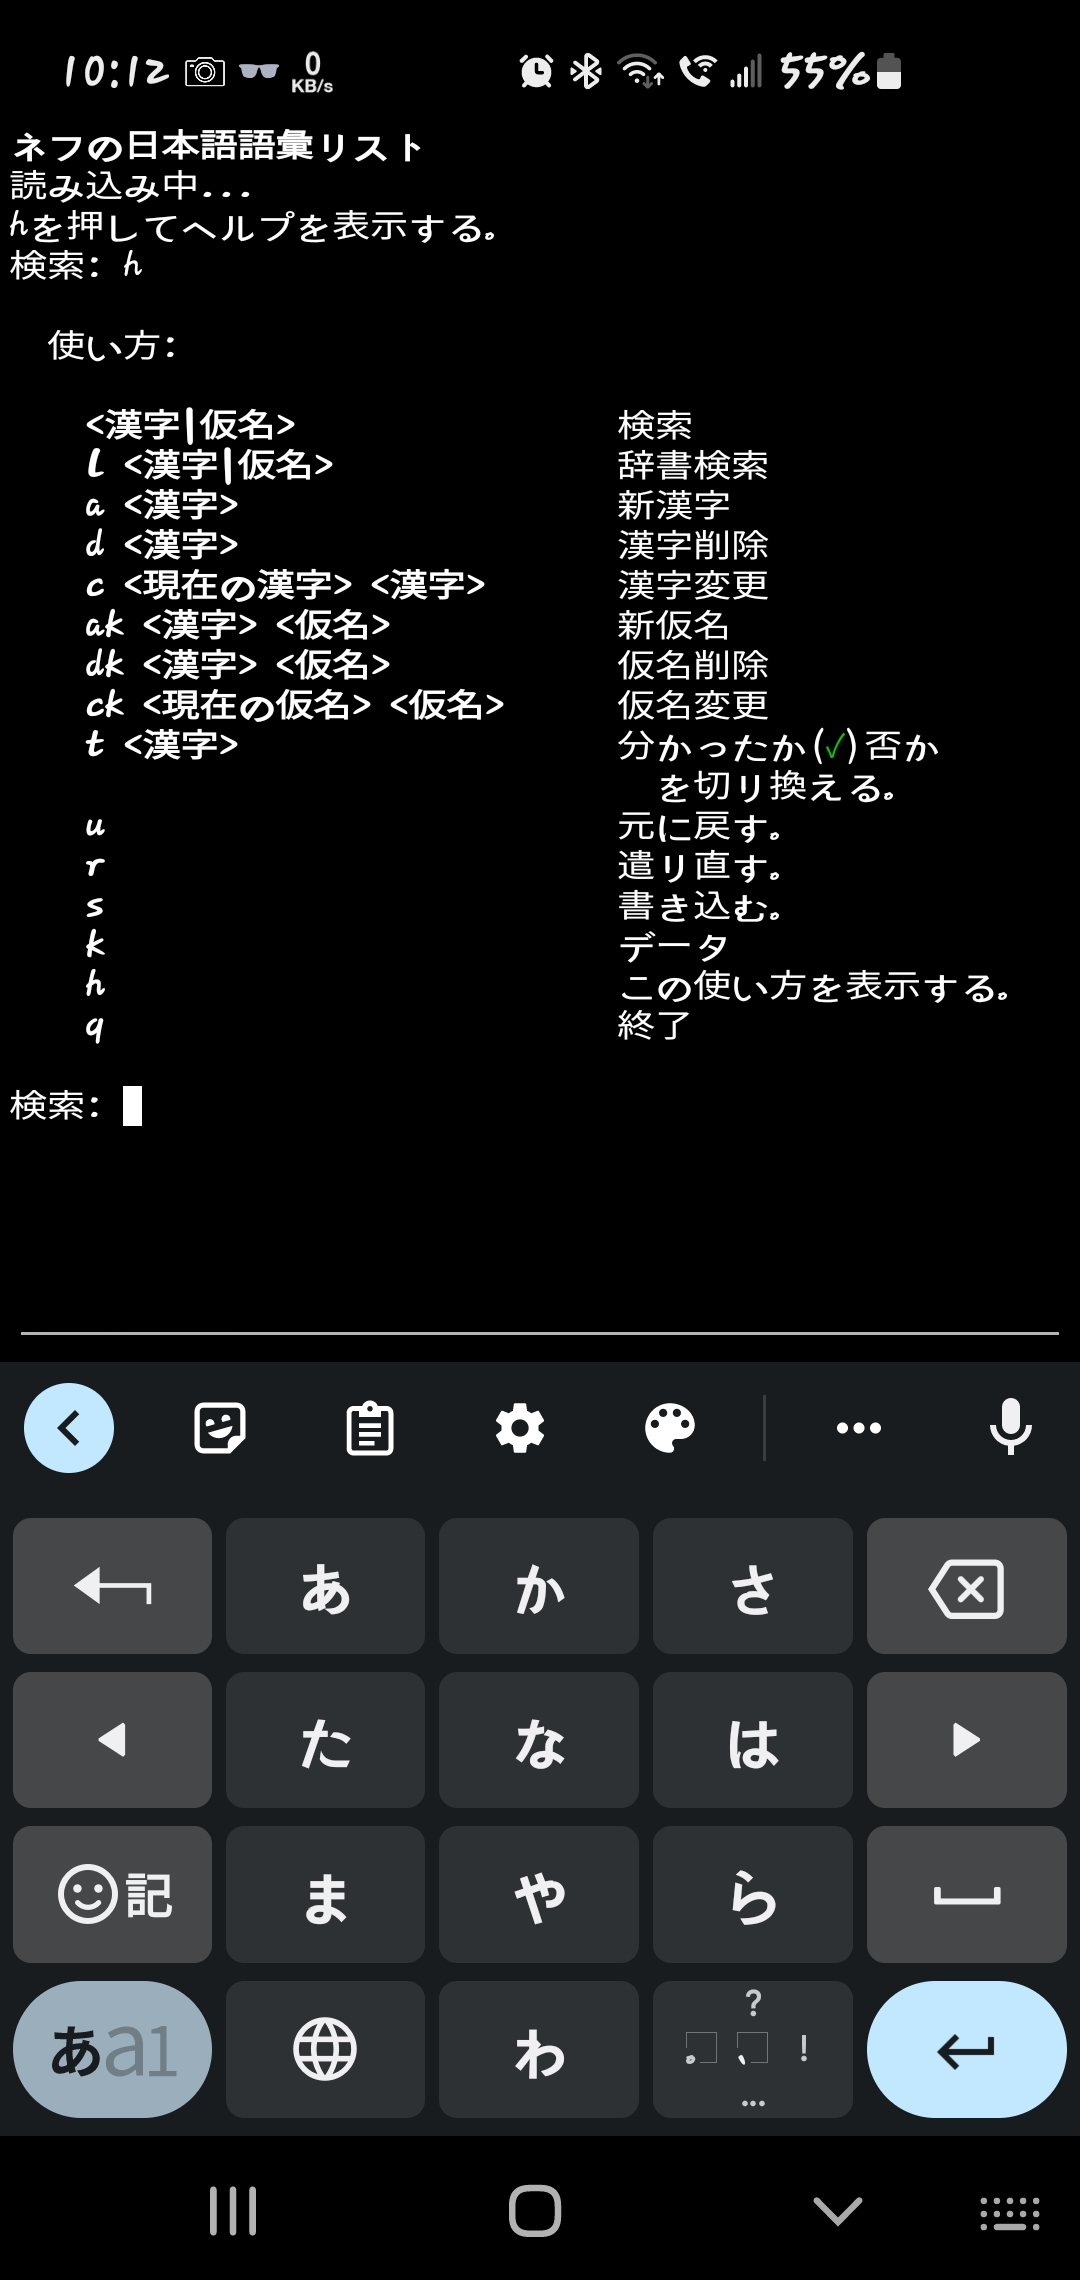
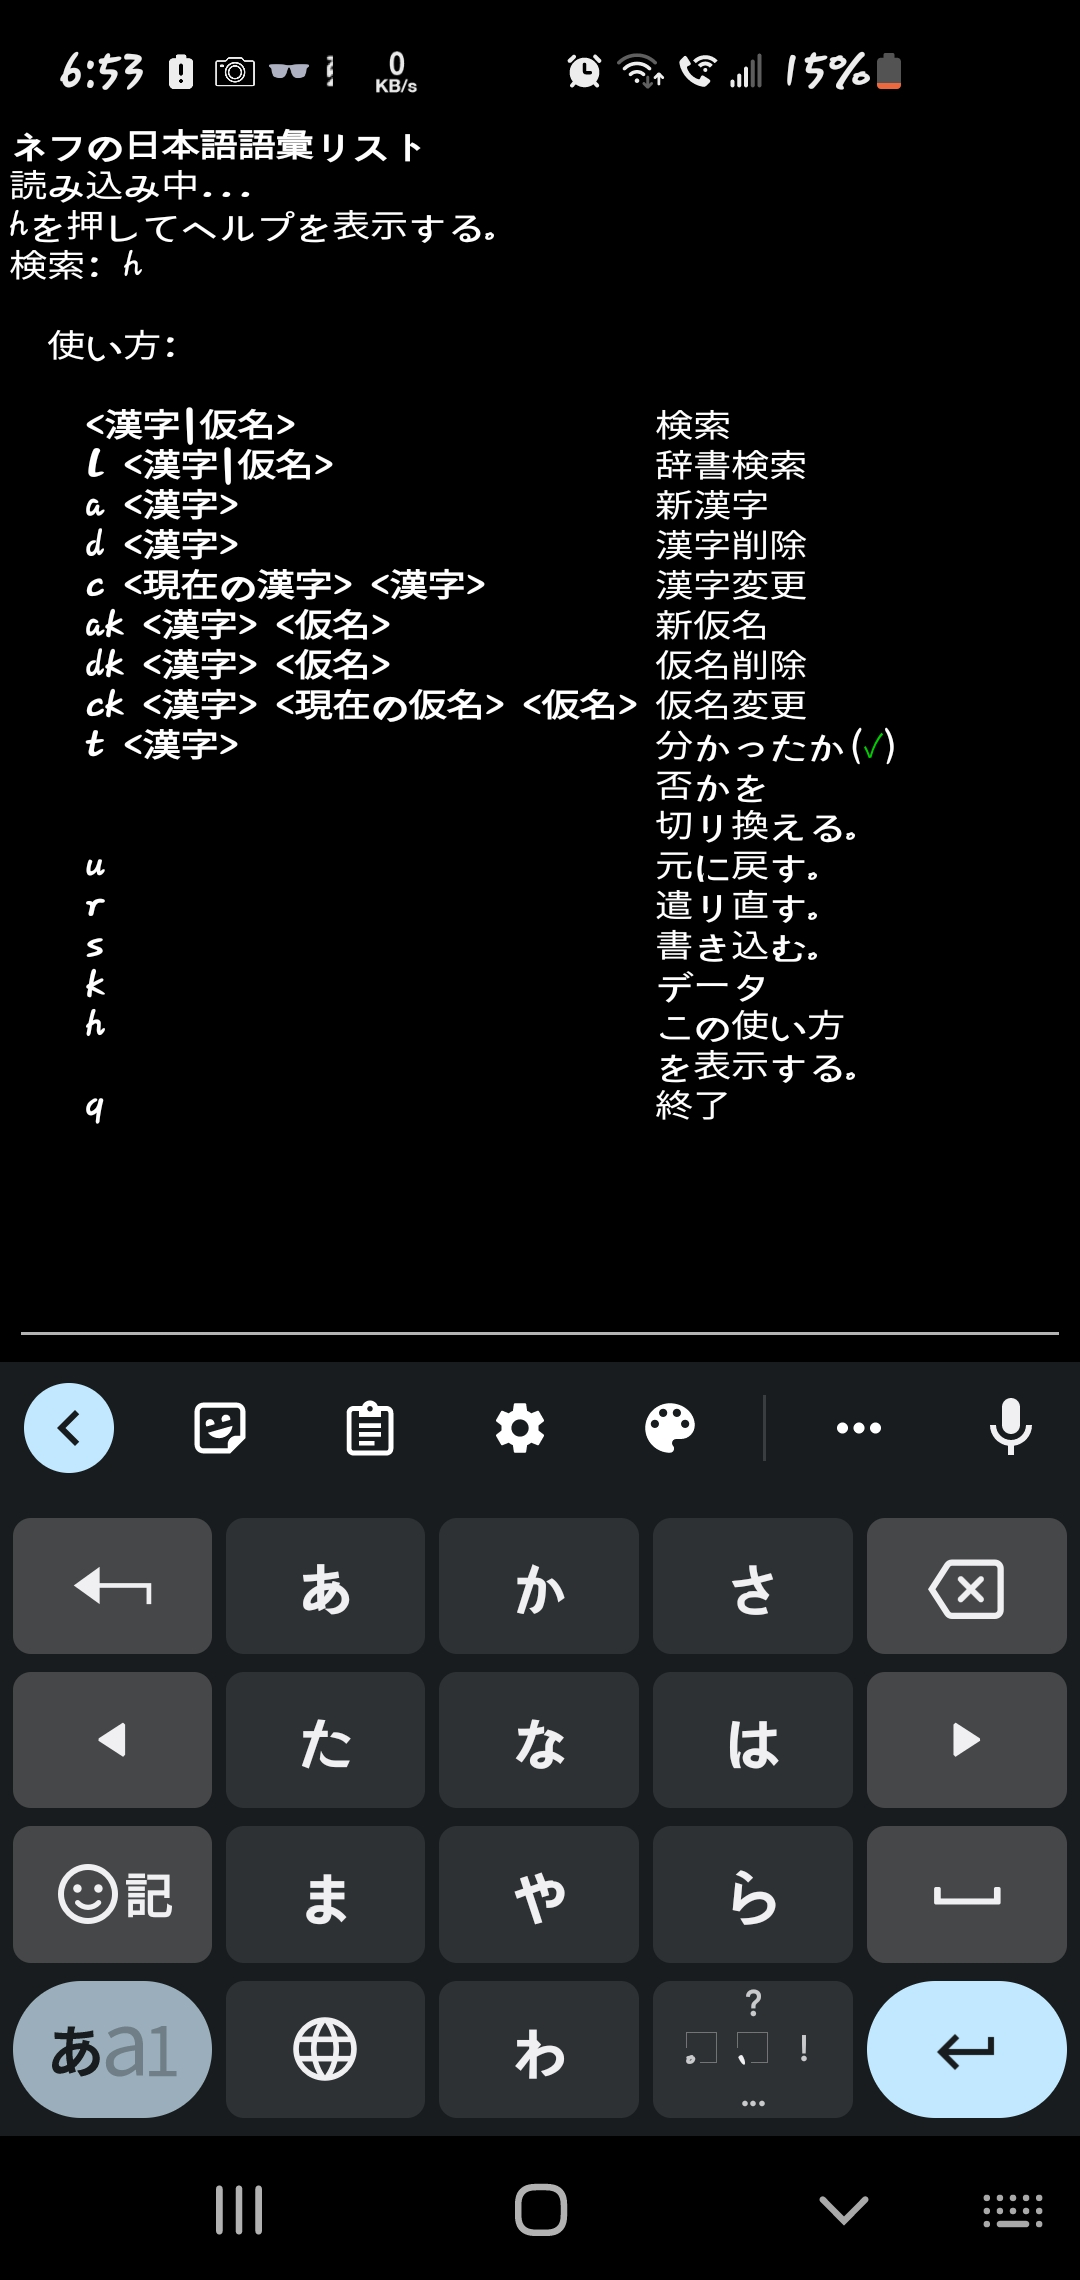
usage

diff --git a/src/operations.py b/src/operations.py
@@ -179,21 +179,21 @@ def stats(command_stack: CommandStack, vocab: Vocab, params: List[
 
 
 __operation_help: List[Tuple[Optional[str], Optional[str], str, int]] = [
-    (None, '<漢字|仮名>', '検索', 2),
-    ('l', '<漢字|仮名>', '辞書検索', 2),
-    ('a', '<漢字>', '新漢字', 3),
-    ('d', '<漢字>', '漢字削除', 3),
-    ('c', '<現在の漢字> <漢字>', '漢字変更', 1),
-    ('ak', '<漢字> <仮名>', '新仮名', 2),
-    ('dk', '<漢字> <仮名>', '仮名削除', 2),
-    ('ck', '<漢字> <現在の仮名> <仮名>', '仮名変更', 1),
-    ('t', '<漢字>', '分かったか(%s)否か\n\t\t\t\t  を切り換える。' % color('✓', fg='green'), 3),
-    ('u', None, '元に戻す。', 4),
-    ('r', None, '遣り直す。', 4),
-    ('s', None, '書き込む。', 4),
-    ('k', None, 'データ', 4),
-    ('h', None, 'この使い方を表示する。', 4),
-    ('q', None, '終了', 4),
+    (None, '<漢字|仮名>', '検索', 2, 2),
+    ('l', '<漢字|仮名>', '辞書検索', 2, 2),
+    ('a', '<漢字>', '新漢字', 3, 2),
+    ('d', '<漢字>', '漢字削除', 3, 2),
+    ('c', '<現在の漢字> <漢字>', '漢字変更', 1, 2),
+    ('ak', '<漢字> <仮名>', '新仮名', 2, 2),
+    ('dk', '<漢字> <仮名>', '仮名削除', 2, 2),
+    ('ck', '<漢字> <現在の仮名> <仮名>', '仮名変更', 0, 0),
+    ('t', '<漢字>', '分かったか(%s)\n\t\t\t\t  否かを\n\t\t\t\t  切り換える。' % color('✓', fg='green'), 3, 2),
+    ('u', None, '元に戻す。', 4, 2),
+    ('r', None, '遣り直す。', 4, 2),
+    ('s', None, '書き込む。', 4, 2),
+    ('k', None, 'データ', 4, 2),
+    ('h', None, 'この使い方\n\t\t\t\t  を表示する。', 4, 2),
+    ('q', None, '終了', 4, 2),
 ]
 
 
@@ -204,13 +204,13 @@ def show_help(command_stack: CommandStack,
                                                           bool,
                                                           bool]]:
     print('\n  使い方:\n')
-    for (command, params, help_text, tabs) in __operation_help:
+    for (command, params, help_text, tabs, spaces) in __operation_help:
         out = []
         if command is not None:
             out.append(color(command, style='bold'))
         if params is not None:
             out.append(color(params, style='bold'))
-        out.append('\t' * tabs + help_text)
+        out.append('\t' * tabs + ' ' * spaces + help_text)
         print('    ' + ' '.join(out))
     print()
     return (None, None, False, False)
